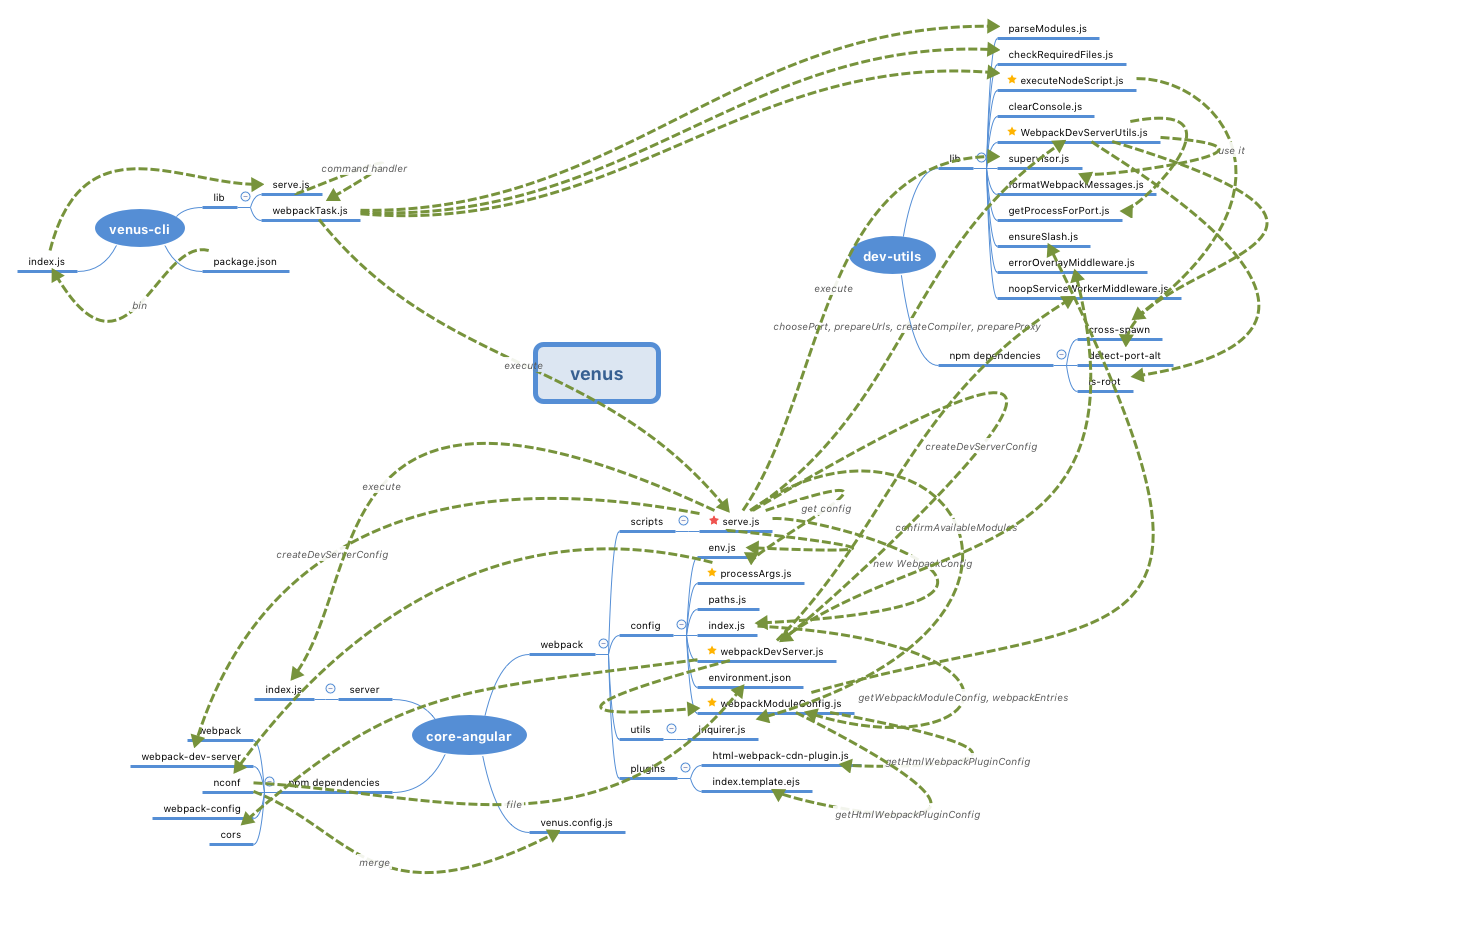
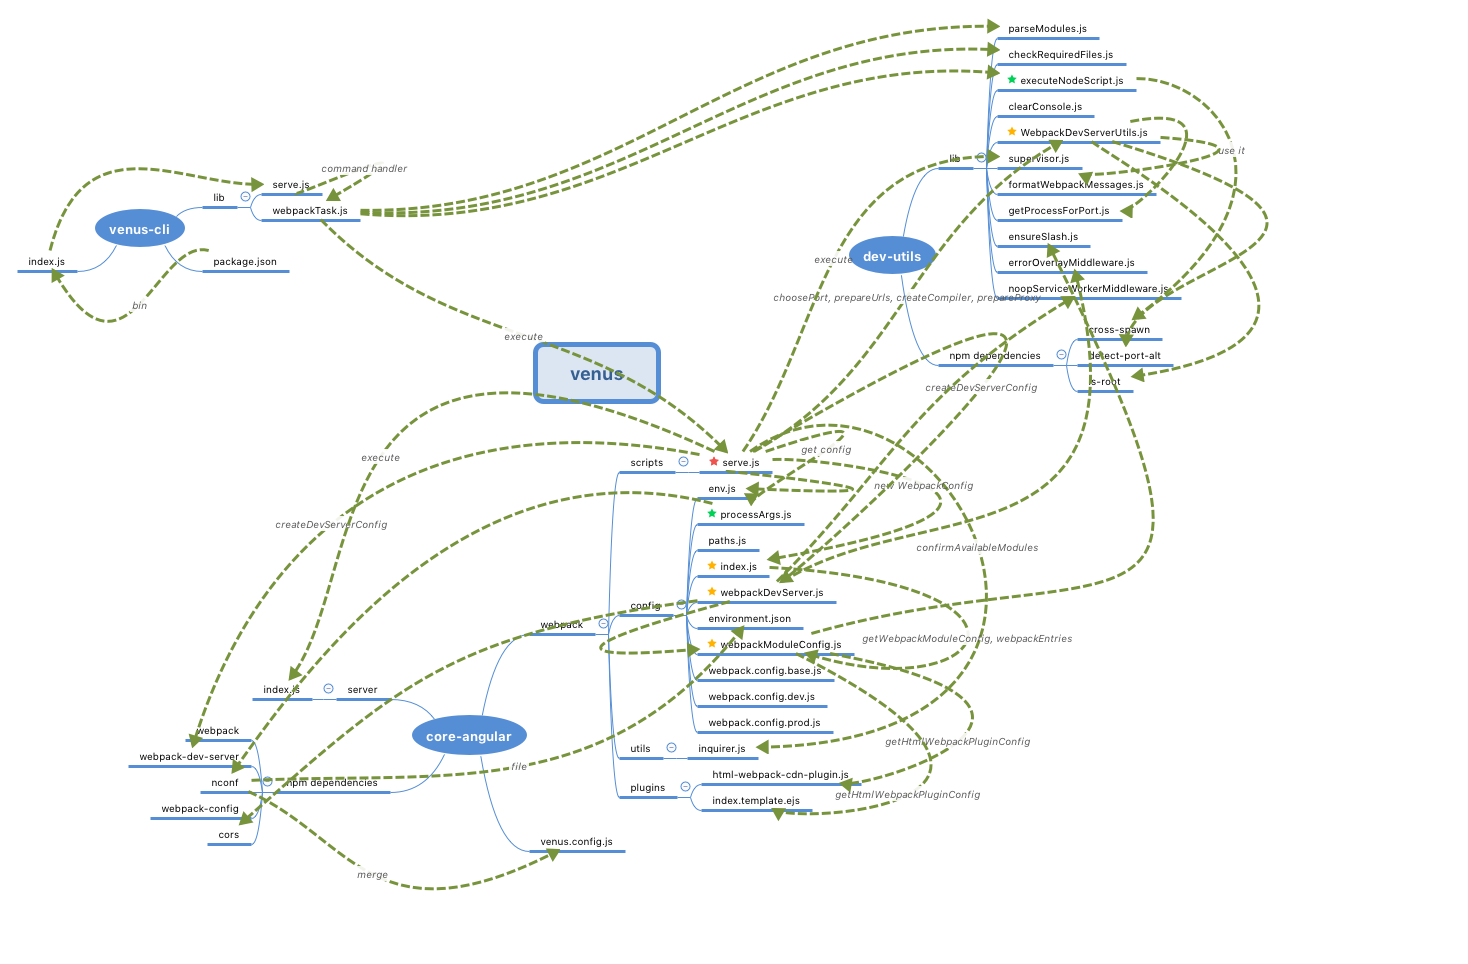
update diagram, key modules

diff --git a/notes/venus-serve-summary.md b/notes/venus-serve-summary.md
@@ -1,3 +1,36 @@
 # venus serve command summary
+## structure diagram
 ![venus serve command summary](../assets/venus-serve.png)
+
+## Key modules:
+
+### config related
+1. `core-angular/webpack/scripts/serve.js`
+-- the **gather point** of `venus serve` command related configurations.
+
+<br>
+
+2. `dev-utils/lib/WebpackDevServerUtils.js`
+-- `createCompiler` create a `compiler` instance.
+-- other `webpack dev server` related `utils`, eg. `choosePort`, `prepareUrls`, `prepareProxy`.
+
+<br>
+
+3. `core-angular/webpack/config/webpackModuleConfig.js`
+-- generate `webpack` config object according to different enviorment.
+
+<br>
+
+4. `core-angular/webpack/config/index.js`
+-- defined `WebpackConfigBase` constructor, whose `prototype` has `getNodeEnv`, `getWebpackConfig` and `getAvailableEntries` methods. `getWebpackConfig` requires `webpackModuleConfig.js` to get `webpack` config object.
+<br>
+
+### Utils related
+1. `core-angular/webpack/config/processArgs.js`
+-- generate venus config file according to `argv`, `env`, `environment.json` and `venus.config.js`.
+<br>
+
+2. `dev-utils/lib/executeNodeScript.js`
+-- execute command in `child process` using `cross-spawn` module.
+
 
